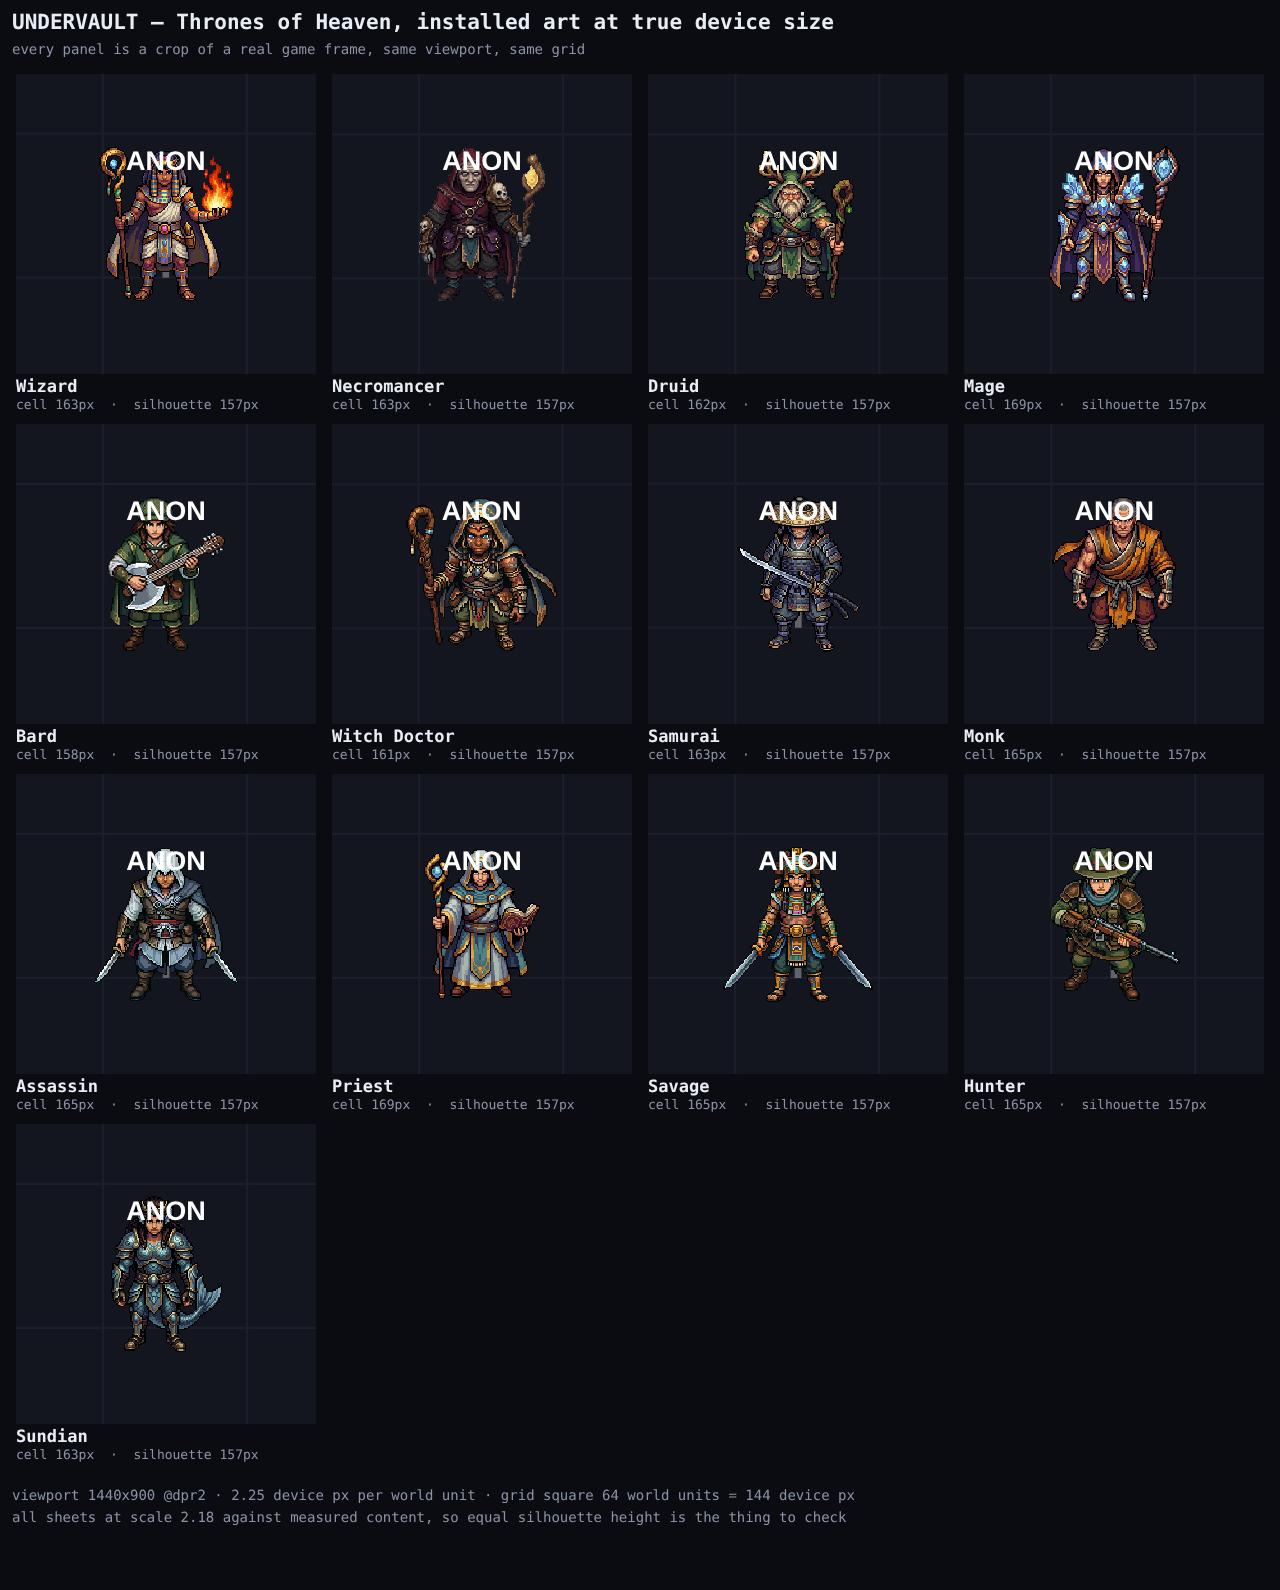
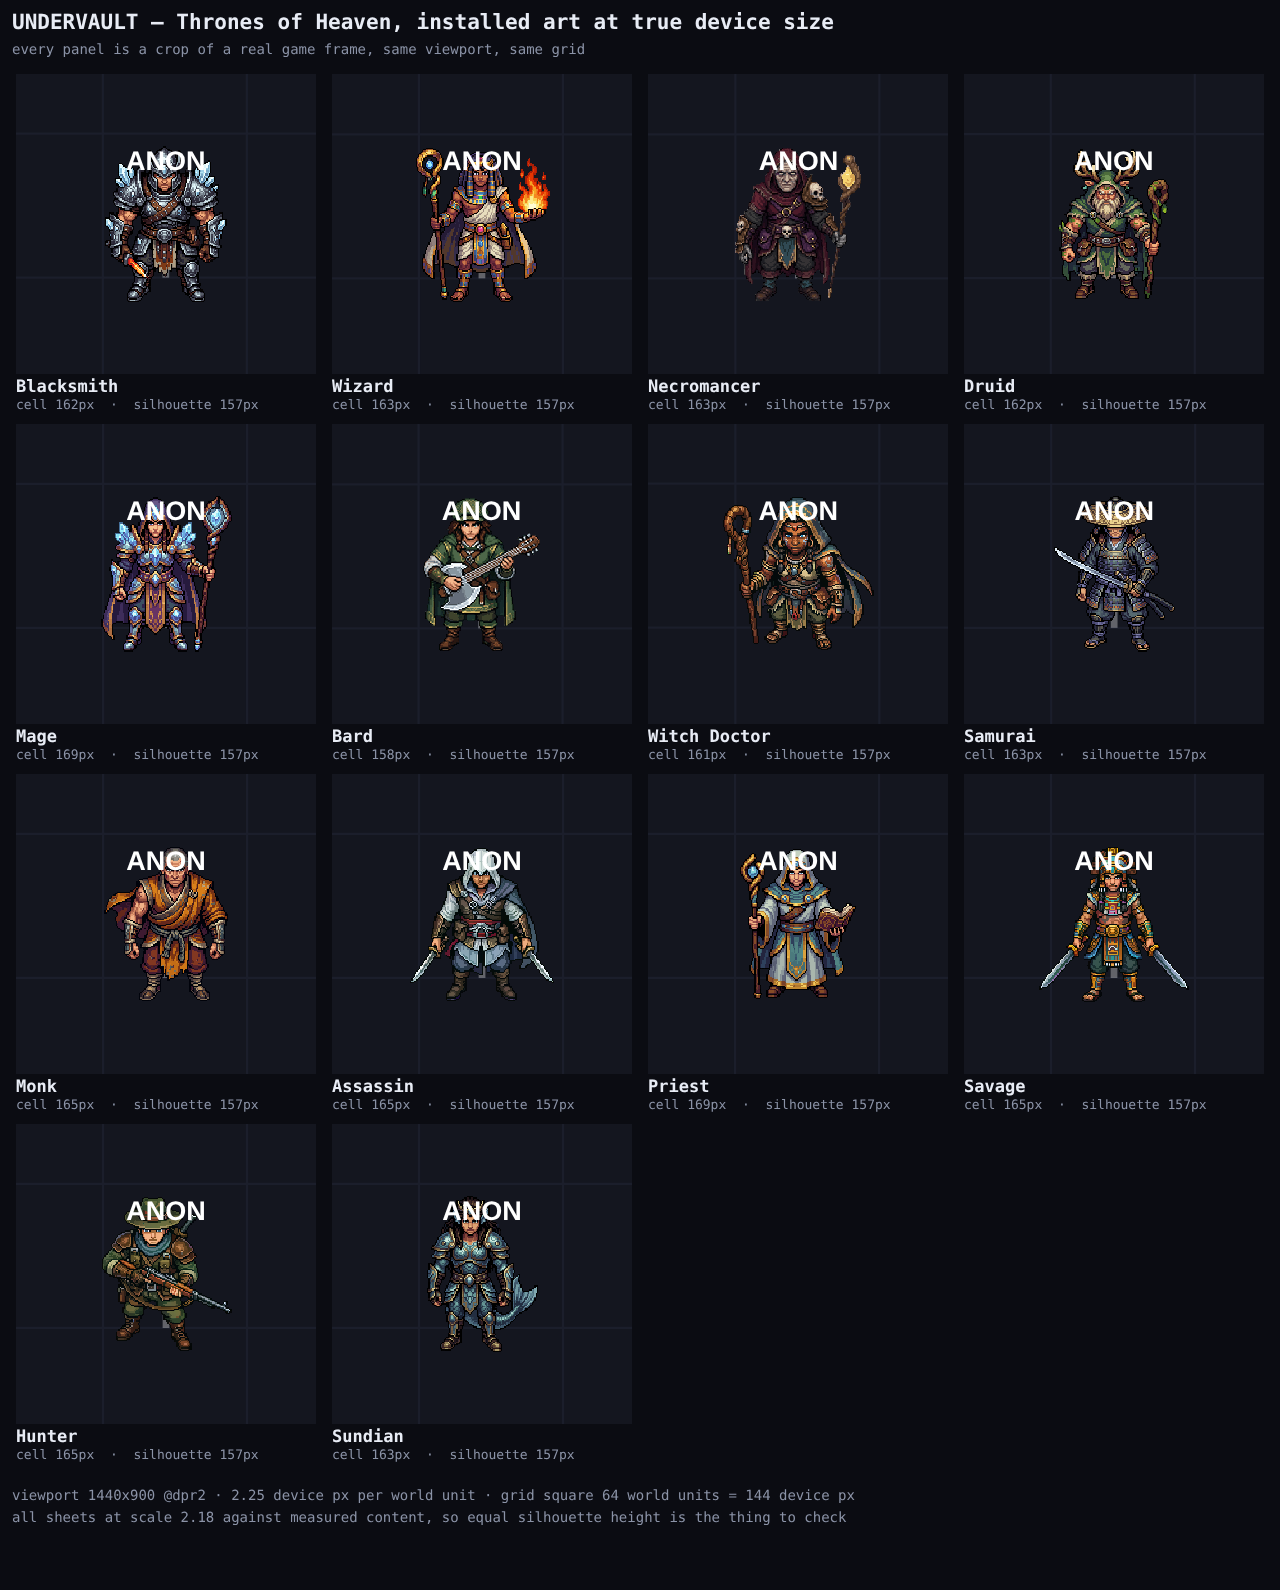
Blacksmith installed at 2.18 — batch 1 is complete, and a gate that named one trait
Thirteenth of the 13, and the last. Eight 252x252 RGBA facings supplied
2026-08-05 across two messages of four; not assembled until all eight were
present. Committed verbatim under docs/art-review/batch1/blacksmith/sources/ at
the md5s they arrived with.

  E  0c867d0c6e4ecacfdf7d4a6dc82c4f32    W  7f72a004044e1e5af521a7e5883b3e3f
  SE 1caa7d4eb65ab1a1333890979b7ae4e7    NW 98673db1d794fb93d840d83eda27ead7
  S  9089d09c7648e5c8da81eb65c1bc87f1    N  664413802e0f2984be1383f7dc91eab0
  SW 4227cacf145ecfd317efa6c1015e9dc5    NE 650385170afffa05c0adcc247c075c62

assets/sprites/char/toh_blacksmith.png, 128x1024, directions 8, content [96,124],
scale 2.18. Autocrop 252x252 -> 96x124, no resampling. On the roster's scale,
pixel density 0.79 — the Druid's number exactly.

Per-facing spread 1.6%, tied with the Savage for the tightest on the roster. The
union across all eight matched what the four cardinals predicted, the first time
this batch that extrapolating would have been safe — it was still measured across
all eight, because the Necromancer's diagonals came in 3px taller than his and
there is no way to know which case you are in without looking.

BATCH 1 IS CLOSED. Fourteen sheets — the whole Thrones of Heaven roster — and
every one renders its silhouette at exactly 157.0 device px. Five source
canvases, two cell sizes, fit values from 1.0079 to 1.0756, and not one
character more than 0.00% off the anchor. That is the case for content
[…]

diff --git a/docs/art-review/batch1/README.md b/docs/art-review/batch1/README.md
@@ -1,6 +1,8 @@
 # Batch 1 — Thrones of Heaven
 
-Thirteen characters to install. **Twelve are in.**
+Thirteen characters to install. **All thirteen are in — batch 1 is complete.**
+With the Druid anchor that is the whole 14-character Thrones of Heaven roster
+shipping art.
 
 | | character | id | status |
 |---|---|---|---|
@@ -16,7 +18,7 @@ Thirteen characters to install. **Twelve are in.**
 | ✓ | Bard | `char.toh_bard` | installed |
 | ✓ | Sundian | `char.toh_sundian` | installed |
 | ✓ | Necromancer | `char.toh_necromancer` | installed |
-| | Blacksmith | | awaiting art (1) |
+| ✓ | Blacksmith | `char.toh_blacksmith` | installed |
 
 The Druid (`char.toh_druid`) is the style anchor and is not part of batch 1 —
 see [`../druid/README.md`](../druid/README.md) and
@@ -48,6 +50,7 @@ artifact of padding.
 | Bard † | 2.18 | 1.0079 | 190×254 | 158.2 | **157.0** | **−0.00%** |
 | Sundian | 2.18 | 1.0407 | 92×123 | 163.3 | **157.0** | **−0.00%** |
 | Necromancer † | 2.18 | 1.0364 | 201×247 | 162.7 | **157.0** | **+0.00%** |
+| Blacksmith | 2.18 | 1.0323 | 96×124 | 162.0 | **157.0** | **+0.00%** |
 
 † **The Bard and the Necromancer are on 256 cells, not 128.** Both arrived drawn
 at roughly twice the roster's scale — the figure fills ~247–254 of a 256 canvas
@@ -59,11 +62,17 @@ Bard's provenance entry, which covers both.
 Measured off the renderer's own `drawImage` in a real arena. Nothing is more
 than 5% off the Druid.
 
-Thirteen sheets, thirteen content boxes, **five** source canvases: 240×240
-(Mage), 244×244 (Savage, Priest), 248×248 (Druid, Assassin, Samurai, Monk,
-Wizard), 252×252 (Sundian), 256×256 (Hunter, Witch Doctor, Bard, Necromancer).
-Cell fill runs 93.0% to 97.7% on the eleven 128-cell sheets, and 96.5–99.2% on
-the two 256-cell ones.
+**Fourteen sheets — the whole roster.** Fourteen content boxes, **five** source
+canvases: 240×240 (Mage), 244×244 (Savage, Priest), 248×248 (Druid, Assassin,
+Samurai, Monk, Wizard), 252×252 (Sundian, Blacksmith), 256×256 (Hunter, Witch
+Doctor, Bard, Necromancer). Cell fill runs 93.0% to 97.7% on the twelve 128-cell
+sheets, and 96.5–99.2% on the two 256-cell ones.
+
+**Every one renders its silhouette at exactly 157.0 device px.** Fourteen
+characters, five source canvases, two cell sizes, `fit` values from 1.0079 to
+1.0756 — and not one of them is more than 0.00% off the anchor. That is the
+whole case for content normalisation, and it is now made on a complete roster
+rather than an argument.
 
 The spread across **cells** is now 160.7 to 168.8 device px — 8.1px, opened up
 by the Priest and matched exactly by the Mage, who lands on the same 119px
@@ -99,6 +108,7 @@ would render its other seven short. Measured:
 | Bard | 248 254 248 254 248 246 244 246 | 254 | 244 | **4.1%** |
 | Sundian | 122 123 122 123 122 119 115 119 | 123 | 115 | **7.0%** |
 | Necromancer | 244 247 241 247 244 238 239 240 | 247 | 238 | **3.8%** |
+| Blacksmith | 124 124 123 124 124 123 122 123 | 124 | 122 | **1.6%** |
 
 The **Sundian is the widest of the bipeds at 7.0%**, just outside the band the
 other ten sit in — his three north-facing rows are 4–8px shorter than the rest,
@@ -134,6 +144,32 @@ eight drawings. Every installed sheet passes with nothing waived —
 `assets/gate-exceptions.json` is empty.
 
 **Consistency is judged on the contact sheet**, not from numbers.
+
+## Batch 1 is closed
+
+Thirteen characters installed between 2026-08-04 and 2026-08-05, plus the Druid
+anchor: the complete Thrones of Heaven roster. Every source file is committed
+verbatim under `<character>/sources/` at the md5 it arrived with, nothing was
+regenerated, resampled or retouched, and the structural gate passes on all
+fourteen with `assets/gate-exceptions.json` empty.
+
+What the batch cost the pipeline, and what it taught:
+
+- **Content normalisation carried it.** Five source canvases and two cell sizes
+  arrived unannounced across thirteen characters, and every silhouette lands on
+  157.0 device px. Not one character needed a hand-calibrated scale.
+- **Two sheets came in at double the roster's scale** (Bard, Necromancer) and
+  ship on 256 cells. Their on-screen size is right; their pixel density is not,
+  and that is the one open look question — see the Bard's entry.
+- **Decoded memory went 5.53 MB → 10.53 MB**, most of it those two sheets. Still
+  fine; a roster of them would not be.
+- **A quadruped and a tail both turned out to be non-events**, because
+  normalisation keys on height. The bear's 29.5% per-facing spread is anatomy,
+  not drift, and it is recorded so nobody 'fixes' it.
+
+What is left is not batch 1: 288 non-character ids in the manifest still have no
+art — enemies, bosses, props, projectiles, items, UI. The pipeline that carried
+thirteen characters is the pipeline that will carry them.
 
 ## Provenance
 
@@ -432,6 +468,34 @@ rather than guessed from the cardinals, and why the union came out 3px taller
 than the four cardinals alone suggested.
 
 Per-facing height spread 3.8%, mid-range, and unremarkable for a robed figure.
+
+### Blacksmith
+
+Supplied 2026-08-05, eight **252×252** RGBA PNGs, in two messages of four; not
+assembled until all eight were present. The last character of batch 1.
+
+| facing | md5 | file |
+|---|---|---|
+| E | `0c867d0c6e4ecacfdf7d4a6dc82c4f32` | `blacksmith/sources/east.png` |
+| SE | `1caa7d4eb65ab1a1333890979b7ae4e7` | `blacksmith/sources/southeast.png` |
+| S | `9089d09c7648e5c8da81eb65c1bc87f1` | `blacksmith/sources/south.png` |
+| SW | `4227cacf145ecfd317efa6c1015e9dc5` | `blacksmith/sources/southwest.png` |
+| W | `7f72a004044e1e5af521a7e5883b3e3f` | `blacksmith/sources/west.png` |
+| NW | `98673db1d794fb93d840d83eda27ead7` | `blacksmith/sources/northwest.png` |
+| N | `664413802e0f2984be1383f7dc91eab0` | `blacksmith/sources/north.png` |
+| NE | `650385170afffa05c0adcc247c075c62` | `blacksmith/sources/northeast.png` |
+
+Assembled to `assets/sprites/char/toh_blacksmith.png`, 128×1024, `directions: 8`,
+`content: [96, 124]`, `scale: 2.18`. Autocrop 252×252 → 96×124.
+
+On the roster's scale, 128 cell, pixel density 0.79 — the Druid's number exactly.
+The union across all eight came to 96×124, the same as the four cardinals had
+predicted, which is the first time this batch that extrapolating from the
+cardinals would have been safe. It was still measured across all eight, because
+the Necromancer's diagonals came in 3px taller than his cardinals and there is no
+way to know which case you are in without looking.
+
+Per-facing spread **1.6%**, tied with the Savage for the tightest on the roster.
 
 ## What the contact sheet shows — look at this, not at numbers
 
